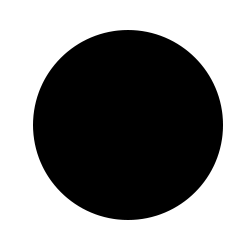
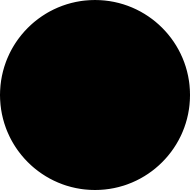
Fixed Minimap Rotation and scale issues
Centered all of the aspects, and re-drew the PNGs to make them actually centered

diff --git a/Assets/Minimap/MapCompass.cs b/Assets/Minimap/MapCompass.cs
@@ -1,4 +1,5 @@
-using System.Collections;
+using System;
+using System.Collections;
 using System.Collections.Generic;
 using UnityEngine;
 
@@ -15,7 +16,7 @@ public class MapCompass : MonoBehaviour
     }
 
     // Update is called once per frame
-    void Update()
+    private void FixedUpdate()
     {
         vector.z = player.eulerAngles.y;
         transform.localEulerAngles = vector;
